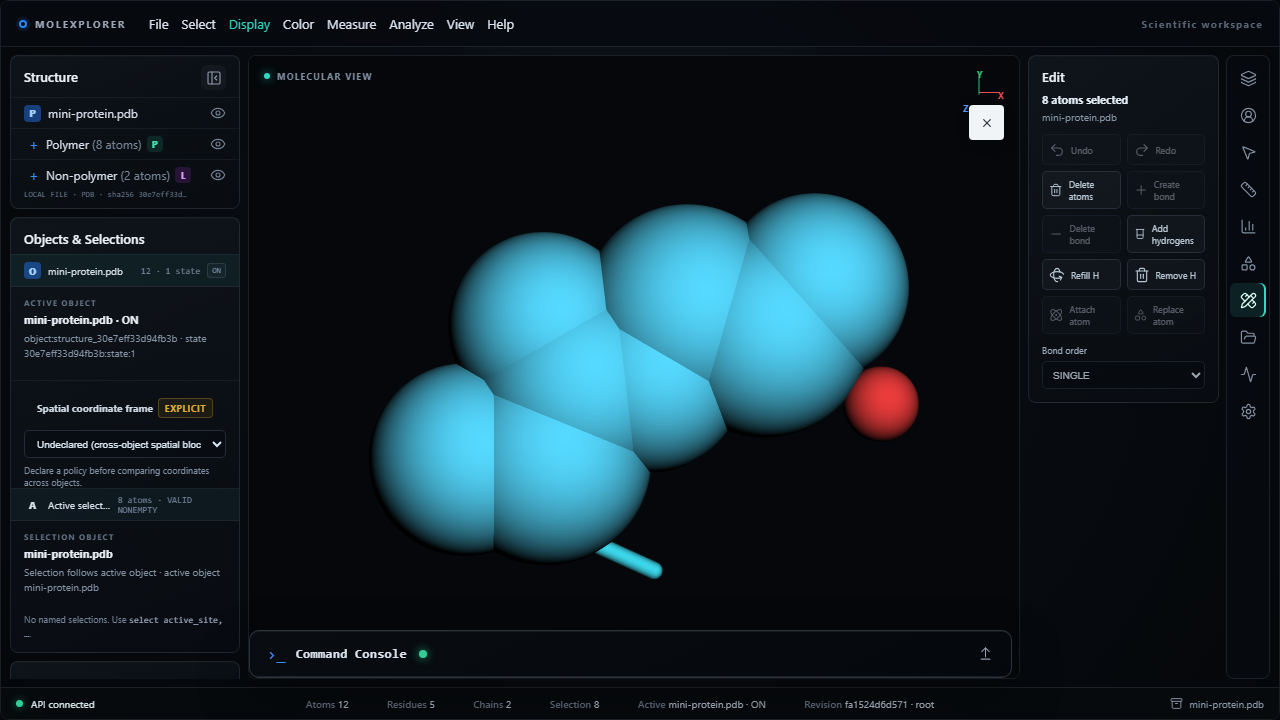
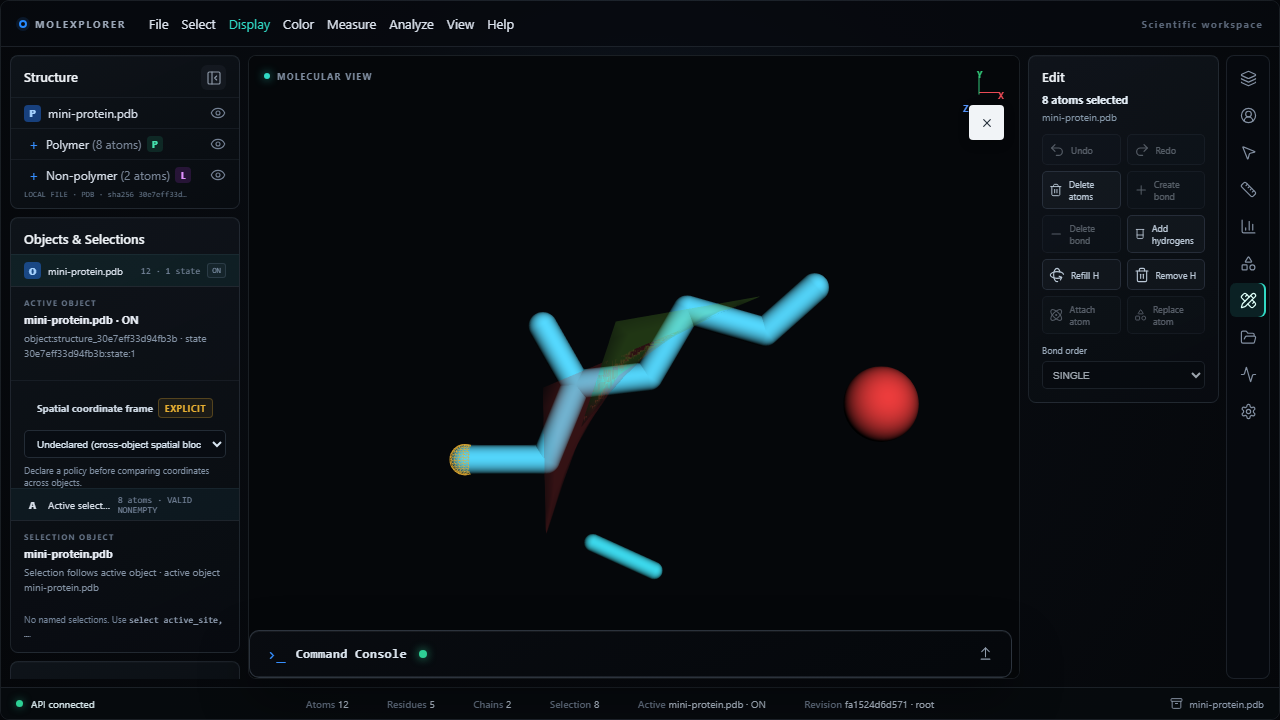
fix: keep selected polymers out of VDW spheres

Changed region(s): [[0.2812, 0.2444, 0.7188, 0.7944]]

diff --git a/apps/web/src/rendering/ThreeDMolViewerAdapter.ts b/apps/web/src/rendering/ThreeDMolViewerAdapter.ts
@@ -1223,8 +1223,11 @@ export class ThreeDMolViewerAdapter {
       const overlayGroups = new Map<RenderProjection["representation"], string[]>();
       for (const atom of entry.structure.atoms) {
         if (!matchingLocalIds.has(atom.stableId)) continue;
+        // A topology selection must never promote a polymer atom into a
+        // space-filling sphere. In the cartoon family, selected polymer atoms
+        // use a thin stick overlay and retain the single-atom halo below.
         const representation = (entryProjection.representation === "cartoon" || entryProjection.representation === "ribbon" || entryProjection.representation === "trace" || entryProjection.representation === "putty")
-          ? atom.isPolymer ? matchingLocalIds.size <= 64 ? "ball-and-stick" : "sticks" : atom.isWater || atom.isIon ? "spheres" : "sticks"
+          ? atom.isPolymer ? "sticks" : atom.isWater || atom.isIon ? "spheres" : "sticks"
           : entryProjection.representation;
         overlayGroups.set(representation, [...(overlayGroups.get(representation) ?? []), atom.stableId]);
       }

diff --git a/verification/final-rearchitecture/SLICE_E_EDIT_RAIL.md b/verification/final-rearchitecture/SLICE_E_EDIT_RAIL.md
@@ -5,3 +5,5 @@ The Edit button in the permanent right-side scientific rail now opens the establ
 The controls delegate to the same canonical action IDs and bond-order handler used by the existing command/action layer. The obsolete hidden Edit branch was removed from the top contextual toolbar, leaving one visible GUI route for scientific editing.
 
 `AT-FSR-E-001` imports a local protein, verifies the rail starts in a safe no-selection state, creates a canonical console selection, then verifies that selection-dependent edit operations become available while two-atom-only operations remain disabled. The evidence image is `evidence/SLICE_E_EDIT_RAIL.png`.
+
+During visual inspection, the selected polymer atoms were shown as full spheres under a cartoon representation. The selection overlay now uses sticks for polymer selections, with the existing bounded halo reserved for a single selected atom; canonical coordinates and atom radii remain unchanged.
